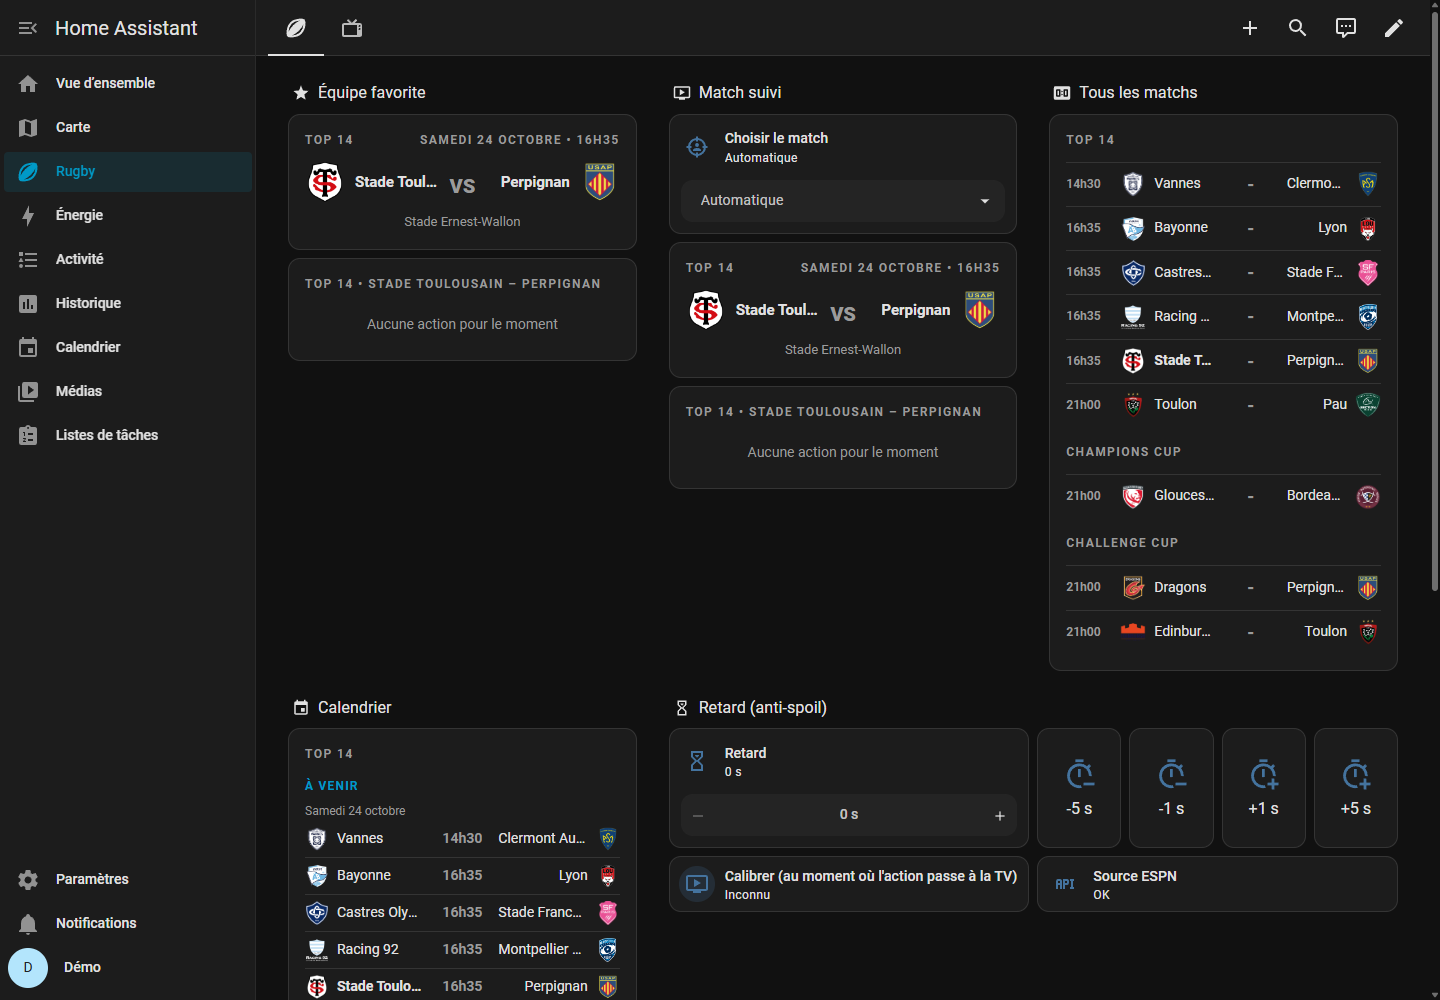
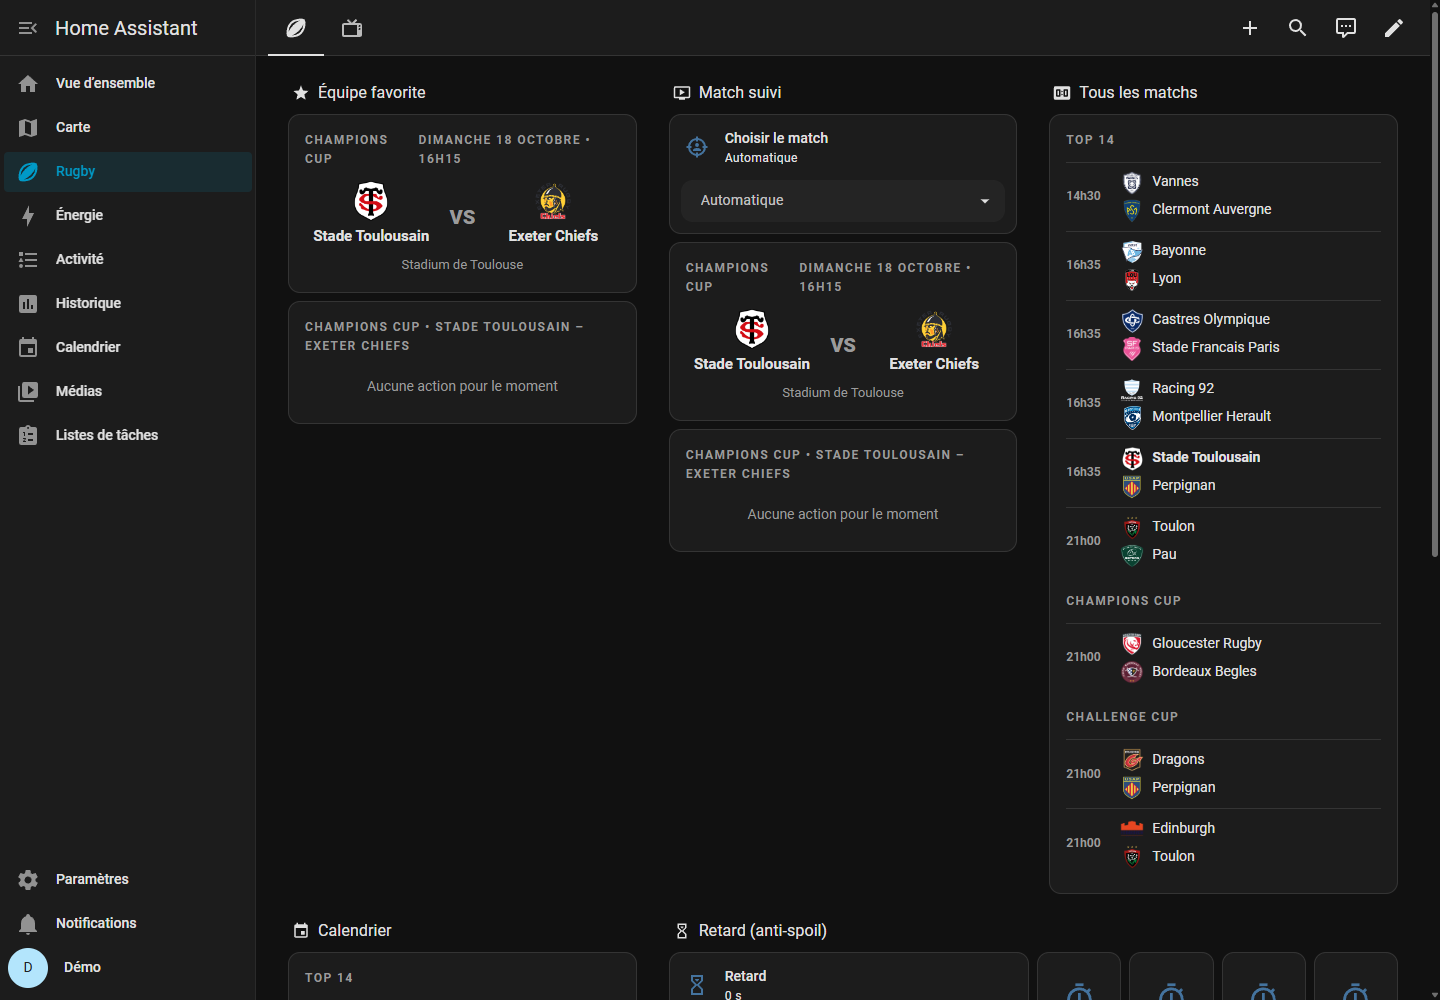
docs(site): one picker on the Direct card, cup player photos, new screenshots

diff --git a/site/index.html b/site/index.html
@@ -164,12 +164,13 @@
     </div>
     <div class="g-step">
       <div><p class="g-num">Étape 3</p><h3>Régler la carte</h3>
-        <p>Tout se règle dans l'éditeur visuel, avec l'aperçu à droite. Laisse les appareils vides : la carte prend le Match suivi et ta
-          première équipe favorite.</p>
+        <p>Tout se règle dans l'éditeur visuel, avec l'aperçu à droite. Un seul choix : <b>une de tes équipes favorites</b> (son match du
+          moment, sinon son prochain match, toutes compétitions confondues) ou <b>Match suivi</b> (le match choisi dans son sélecteur).
+          Vide : ta première équipe favorite.</p>
         <p class="muted">« Animer même si l'appareil demande moins d'animations » : utile si Windows ou ta tablette a les effets d'animation
           désactivés, sinon les animations sont simplifiées.</p></div>
       <a href="img/dash-3-editor.png"><img src="img/dash-3-editor.png" width="1440" height="1000" loading="lazy"
-        alt="Éditeur de la carte Rugby Live – Direct : appareils, bandeau, filigrane, détail des points, bonus Top 14, animations, et aperçu"></a>
+        alt="Éditeur de la carte Rugby Live – Direct : équipe ou Match suivi, bandeau, filigrane, détail des points, bonus Top 14, animations, et aperçu"></a>
     </div>
     <div class="g-step">
       <div><p class="g-num">Étape 4</p><h3>Plein écran pour la TV ou la tablette</h3>
@@ -269,7 +270,7 @@ actions:
     <div class="step"><h3>Quasi direct</h3><p>40 à 65 s de décalage avec le terrain, comme toutes les sources publiques gratuites.</p></div>
     <div class="step"><h3>Trois compétitions</h3><p>Top 14, Champions Cup et Challenge Cup. Une autre ligue ESPN peut s'ajouter par son
       identifiant, sans garantie.</p></div>
-    <div class="step"><h3>Photos des joueurs</h3><p>Pour le Top 14 seulement (base publique de la LNR). Ailleurs, l'animation affiche le logo du club.</p></div>
+    <div class="step"><h3>Photos des joueurs</h3><p>Top 14 : base publique de la LNR. Champions Cup et Challenge Cup : compositions publiées par l'EPCR (environ deux jours avant le match). Sans photo, l'animation affiche le logo du club.</p></div>
   </div>
 </div></section>
 </main>
